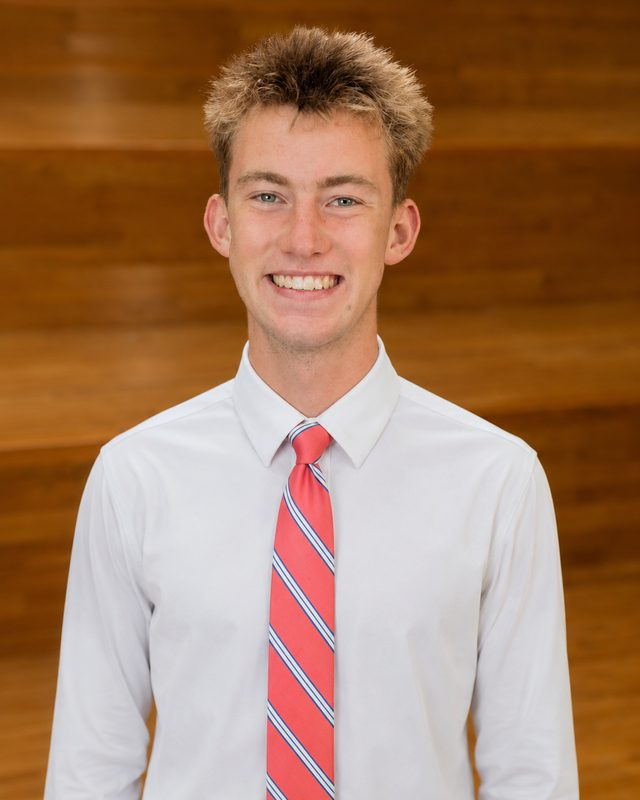
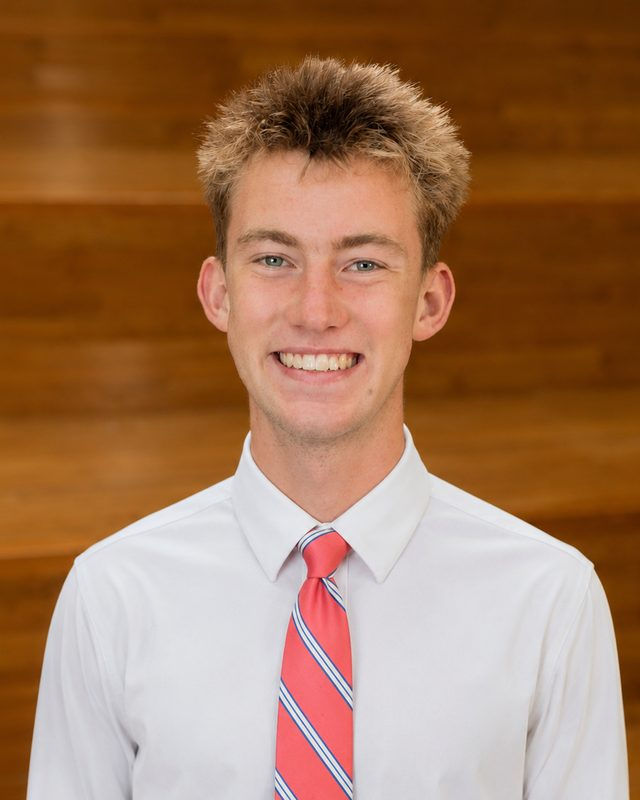
Center team row and faces, bust cached CSS and headshots

diff --git a/team.html b/team.html
@@ -6,7 +6,7 @@
 <title>Our Team | GlowLine</title>
 <meta name="description" content="Meet the founding team behind GlowLine's photoluminescent medical wire wraps.">
 <link rel="icon" href="images/mark-color.png">
-<link rel="stylesheet" href="css/style.css?v=13">
+<link rel="stylesheet" href="css/style.css?v=14">
 </head>
 <body>
 
@@ -38,22 +38,22 @@
   <div class="container">
     <div class="team-grid">
       <div class="team-card">
-        <div class="team-photo-frame"><img class="team-photo" src="images/shana.jpg" alt="Shana Naik"></div>
+        <div class="team-photo-frame"><img class="team-photo" src="images/shana.jpg?v=2" alt="Shana Naik"></div>
         <h3>Shana Naik</h3>
         <div class="team-role">CEO &amp; Founder</div>
       </div>
       <div class="team-card">
-        <div class="team-photo-frame"><img class="team-photo" src="images/prisha.jpg" alt="Prisha Hedau"></div>
+        <div class="team-photo-frame"><img class="team-photo" src="images/prisha.jpg?v=2" alt="Prisha Hedau"></div>
         <h3>Prisha Hedau</h3>
         <div class="team-role">COO &amp; Founder</div>
       </div>
       <div class="team-card">
-        <div class="team-photo-frame"><img class="team-photo" src="images/ian.jpg" alt="Ian Horseman"></div>
+        <div class="team-photo-frame"><img class="team-photo" src="images/ian.jpg?v=2" alt="Ian Horseman"></div>
         <h3>Ian Horseman</h3>
         <div class="team-role">CTO &amp; Founder</div>
       </div>
       <div class="team-card">
-        <div class="team-photo-frame"><img class="team-photo" src="images/abigail.jpg" alt="Abigail White"></div>
+        <div class="team-photo-frame"><img class="team-photo" src="images/abigail.jpg?v=2" alt="Abigail White"></div>
         <h3>Abigail White</h3>
         <div class="team-role">CMO &amp; Founder</div>
       </div>

diff --git a/index.html b/index.html
@@ -6,7 +6,7 @@
 <title>GlowLine | Glow-in-the-Dark Medical Wire Wraps for Hospitals</title>
 <meta name="description" content="GlowLine's photoluminescent wire wraps help nursing staff identify IV lines, ECG cables, ventilator tubing, and monitoring wires instantly in dark patient rooms — no extra light required.">
 <link rel="icon" href="images/mark-color.png">
-<link rel="stylesheet" href="css/style.css?v=13">
+<link rel="stylesheet" href="css/style.css?v=14">
 </head>
 <body>
 

diff --git a/product.html b/product.html
@@ -6,7 +6,7 @@
 <title>Product | GlowLine</title>
 <meta name="description" content="How GlowLine's photoluminescent wire wraps work, the line types they cover, and the clinical-grade materials behind them.">
 <link rel="icon" href="images/mark-color.png">
-<link rel="stylesheet" href="css/style.css?v=13">
+<link rel="stylesheet" href="css/style.css?v=14">
 </head>
 <body>
 

diff --git a/contact.html b/contact.html
@@ -6,7 +6,7 @@
 <title>Contact &amp; Request a Quote | GlowLine</title>
 <meta name="description" content="Contact GlowLine or request a hospital quote for photoluminescent medical wire wraps.">
 <link rel="icon" href="images/mark-color.png">
-<link rel="stylesheet" href="css/style.css?v=13">
+<link rel="stylesheet" href="css/style.css?v=14">
 </head>
 <body>
 

diff --git a/css/style.css b/css/style.css
@@ -488,7 +488,9 @@ table.compare tbody tr:last-child td { border-bottom: none; }
 .team-grid {
   display: grid;
   grid-template-columns: repeat(4, 1fr);
-  gap: 20px;
+  gap: 28px;
+  max-width: 960px;
+  margin: 0 auto;
 }
 .team-card { text-align: center; }
 .team-photo-frame {
